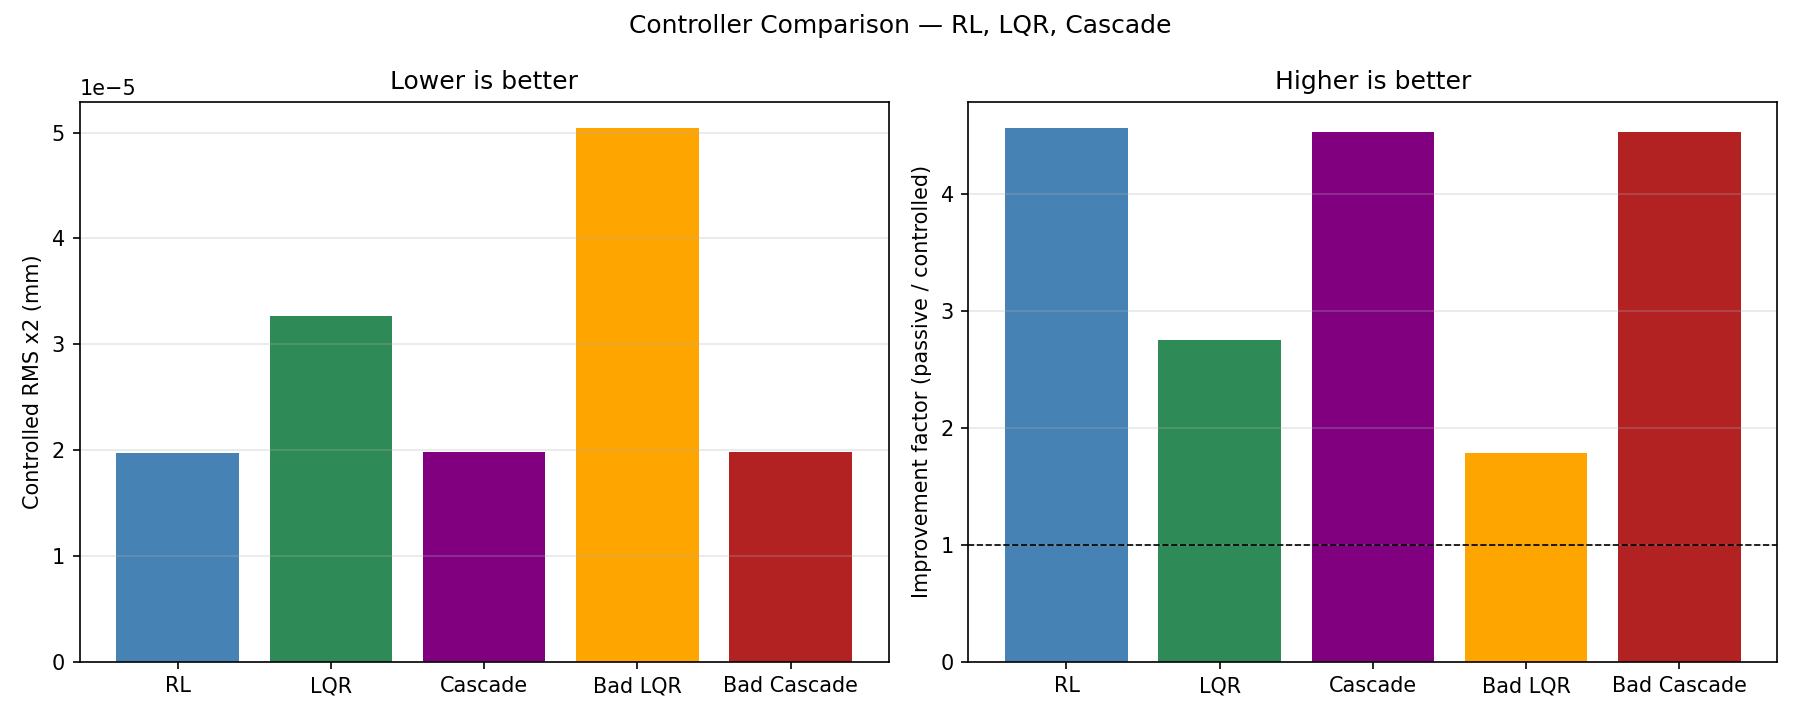
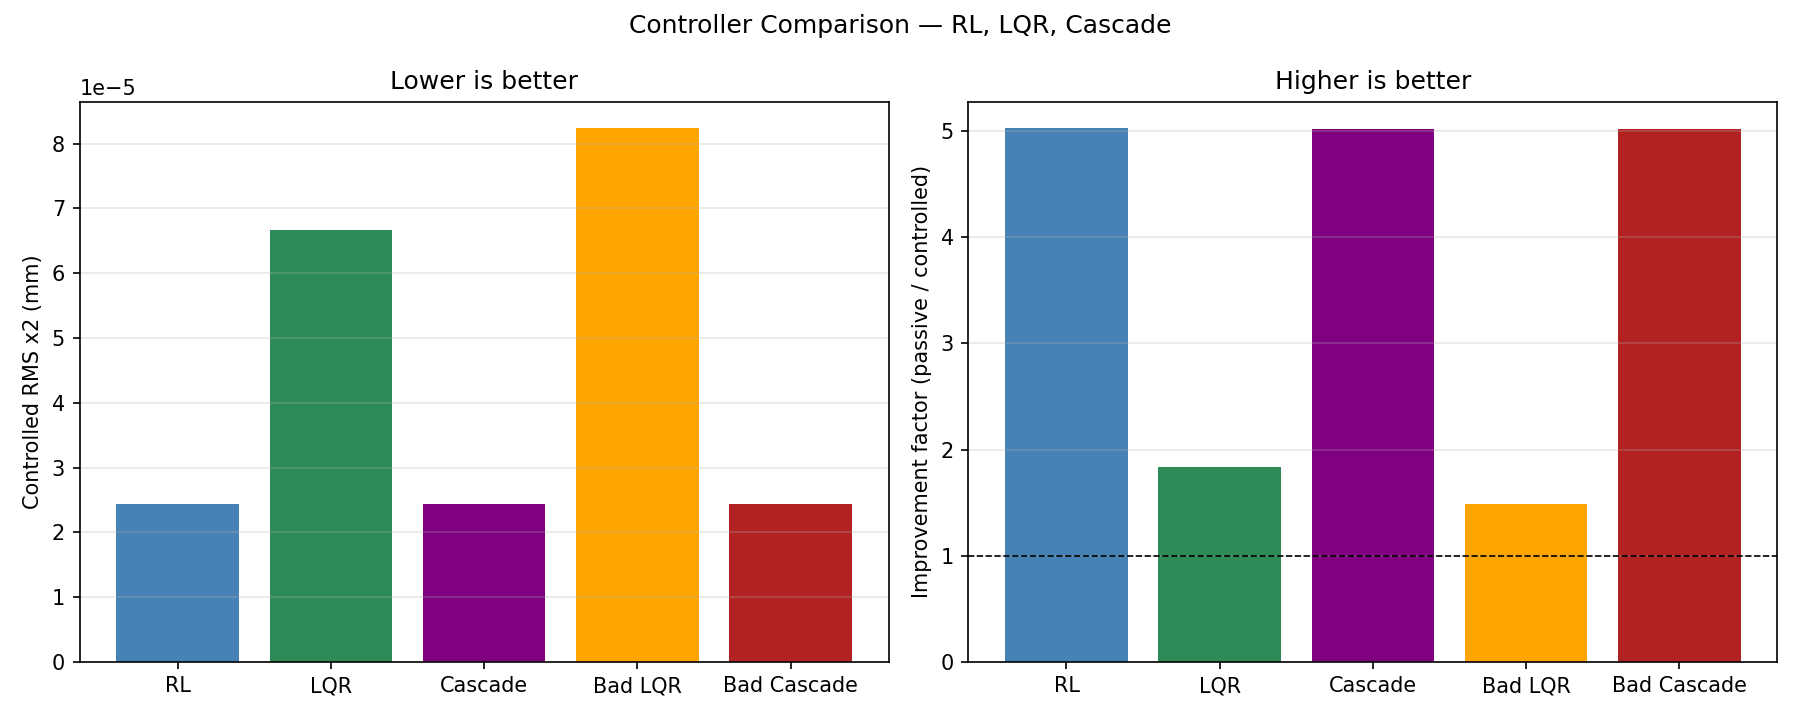
Update RL/LQR artifacts and README summary

diff --git a/README.md b/README.md
@@ -227,23 +227,23 @@ git push
 ## Latest Auto-Generated Run Summary
 
 ### RL (latest run)
-- Seed: `95580`
+- Seed: `96599`
 - Passive RMS x2: `0.000 mm`
 - RL RMS x2: `0.000 mm`
-- Improvement factor (passive/RL): `4.56x`
+- Improvement factor (passive/RL): `5.02x`
 - Reward initial/final: `-5.0239 -> -0.2095`
 - No-noise regulation final |x2|: `11.033 mm`
 - Interpretation: If improvement is < 1.0x, the policy is still underperforming passive isolation and reward scaling/actuation strategy should be revisited.
 
 ### Simple controls / LQR (latest run)
-- Seed: `95665`
+- Seed: `96801`
 - Passive RMS x2: `0.000 mm`
 - LQR RMS x2: `0.000 mm`
-- Improvement factor (passive/LQR): `2.01x`
+- Improvement factor (passive/LQR): `2.79x`
 - Interpretation: This is your near-equilibrium model-based baseline; RL should eventually match or exceed this over repeated seeds.
 
 ### Unified evaluation modes (same seed)
-- Seed: `95580`
+- Seed: `96599`
 - RL-only RMS x2: `0.000 mm`
 - LQR-only RMS x2: `0.000 mm`
 - Cascade RMS x2: `0.000 mm`
